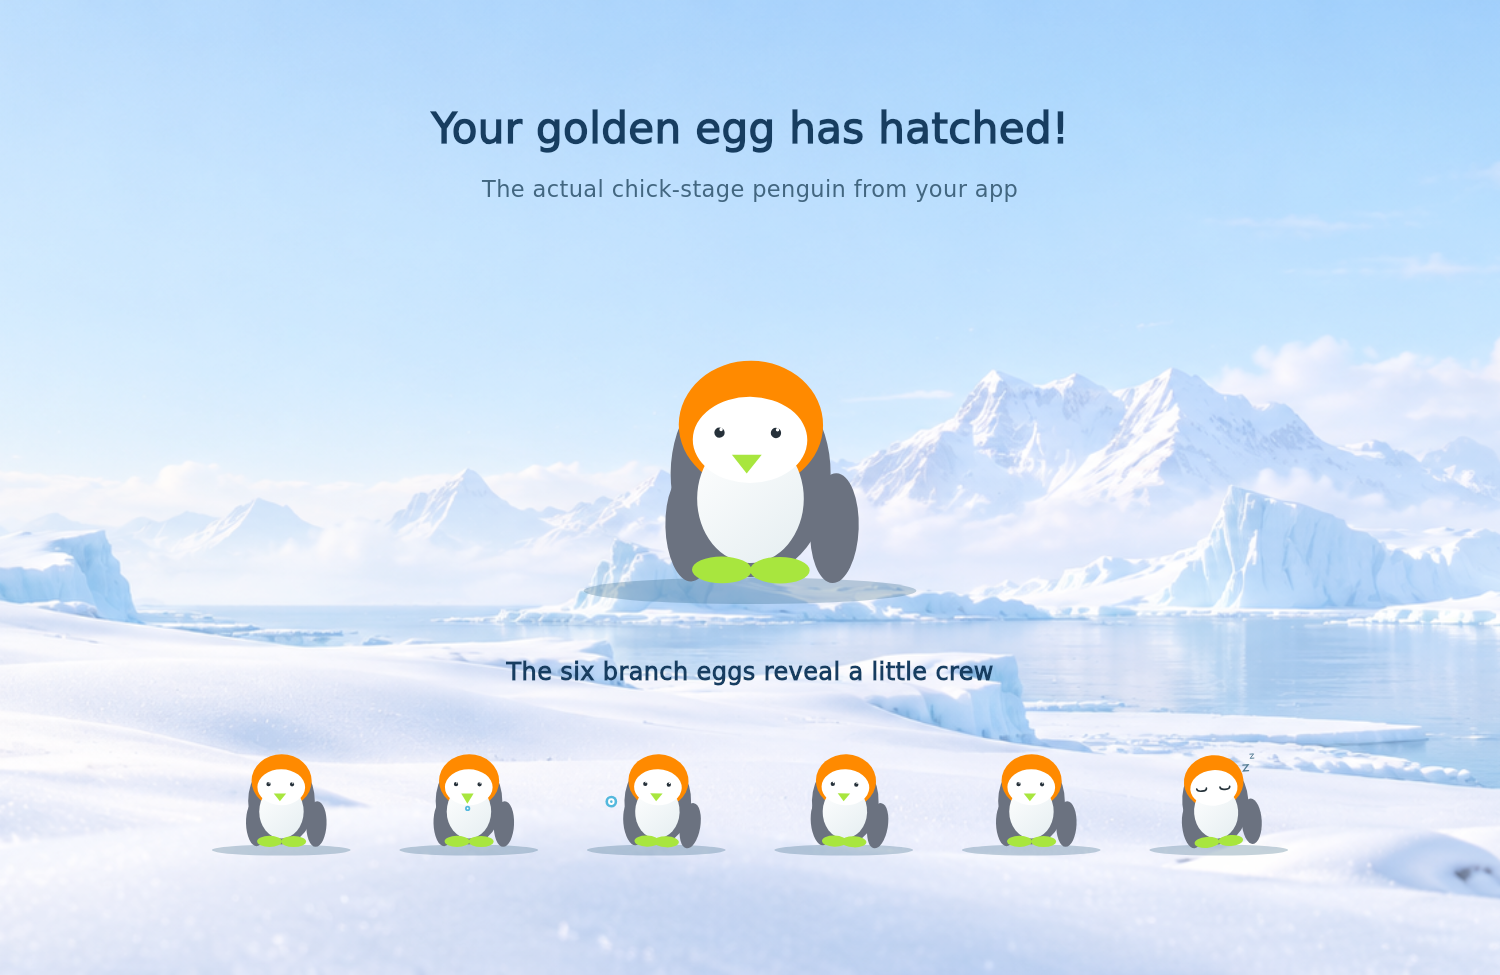
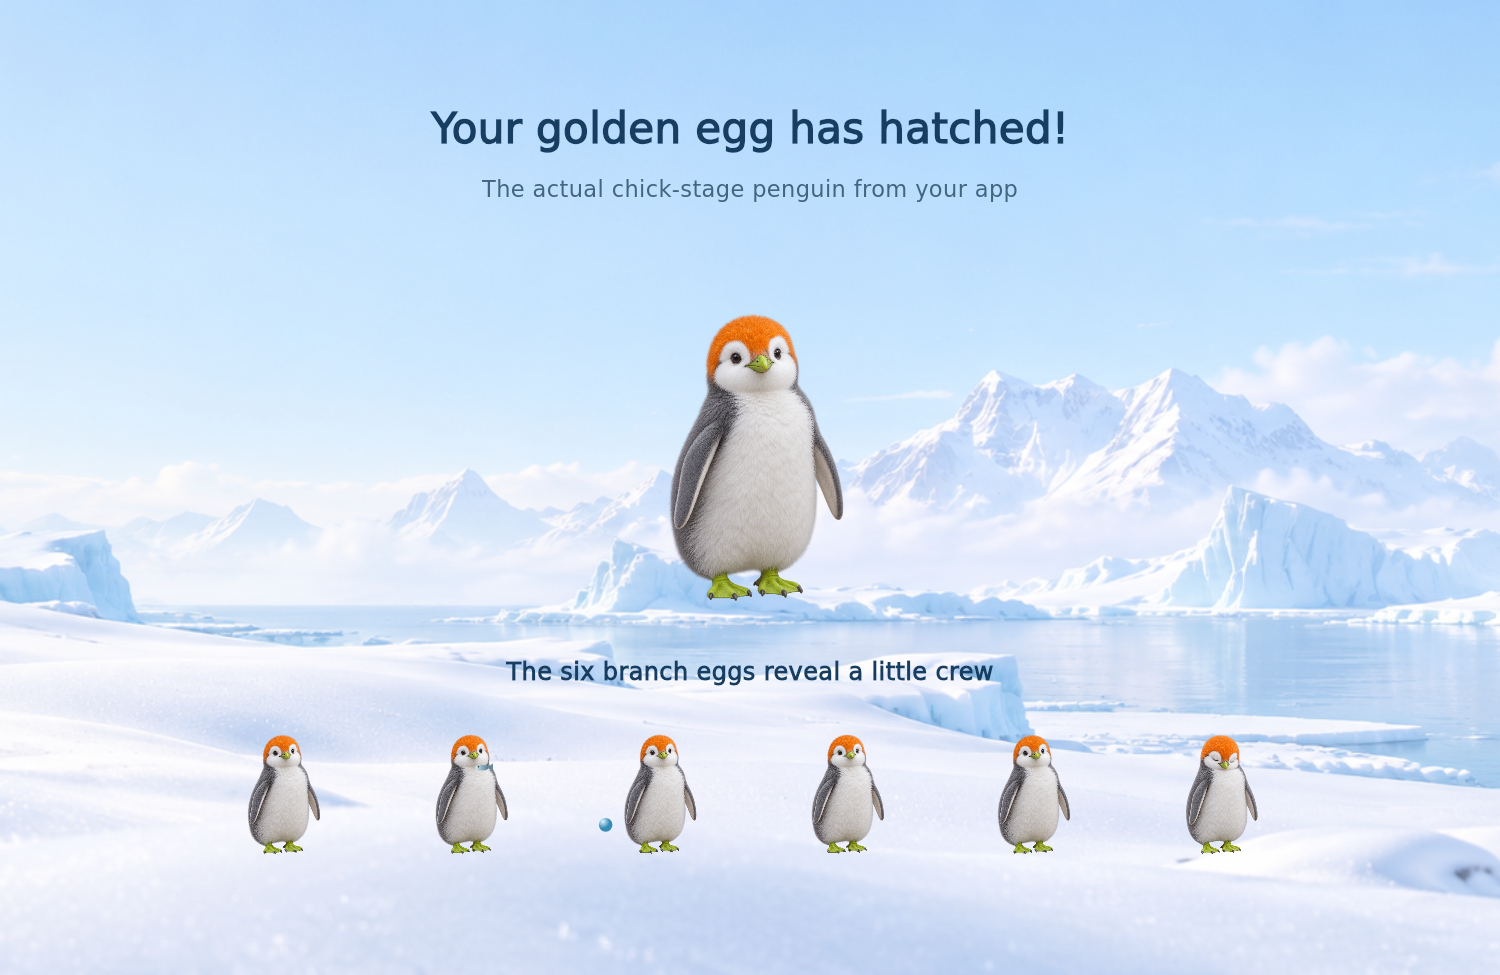
Replace flat penguins with realistic feathered chick and adult artwork

diff --git a/lib/widgets/employee_penguin_pet_card.dart b/lib/widgets/employee_penguin_pet_card.dart
@@ -261,7 +261,7 @@ class _EmployeePenguinPetCardState extends State<EmployeePenguinPetCard> {
   }
 }
 
-/// Original vector penguin, animated locally without downloaded artwork.
+/// Detailed feathered artwork with local breathing, waddling and care motion.
 class PenguinIllustration extends StatefulWidget {
   const PenguinIllustration({
     super.key,
@@ -313,14 +313,83 @@ class _PenguinIllustrationState extends State<PenguinIllustration>
           width: 220,
           child: AnimatedBuilder(
             animation: motion,
-            builder: (context, _) => CustomPaint(
-              painter: _PenguinPainter(
-                stage: widget.stage,
-                action: widget.action,
-                phase: reduceMotion ? 0 : motion.value,
-                hatching: widget.hatching,
-              ),
-            ),
+            builder: (context, _) {
+              final phase = reduceMotion ? 0.0 : motion.value;
+              if (widget.stage == 'egg') {
+                return CustomPaint(
+                  painter: _PenguinPainter(
+                    stage: widget.stage,
+                    action: widget.action,
+                    phase: phase,
+                    hatching: widget.hatching,
+                  ),
+                );
+              }
+              final sleeping = widget.action == 'sleeping';
+              final walking =
+                  widget.action == 'waddling' || widget.action == 'playing';
+              final eating = widget.action == 'eating';
+              final swing = math.sin(phase * math.pi * 2);
+              final growth = widget.stage == 'chick'
+                  ? .84
+                  : widget.stage == 'juvenile'
+                      ? .94
+                      : 1.0;
+              final assetStage = widget.stage == 'chick' ? 'chick' : 'adult';
+              final asset =
+                  'assets/penguins/$assetStage${sleeping ? '_sleep' : ''}.png';
+              return Stack(
+                children: [
+                  Positioned.fill(
+                    child: Transform.translate(
+                      offset: reduceMotion
+                          ? Offset.zero
+                          : Offset(
+                              walking ? swing * 4 : 0,
+                              walking
+                                  ? -swing.abs() * 2
+                                  : eating
+                                      ? -swing.abs() * 1.5
+                                      : 0,
+                            ),
+                      child: Transform.rotate(
+                        angle: reduceMotion
+                            ? 0
+                            : walking
+                                ? swing * .045
+                                : eating
+                                    ? swing * .018
+                                    : swing * .004,
+                        alignment: Alignment.bottomCenter,
+                        child: Transform.scale(
+                          scale: growth *
+                              (1 +
+                                  (reduceMotion
+                                      ? 0
+                                      : swing * (sleeping ? .007 : .005))),
+                          alignment: Alignment.bottomCenter,
+                          child: Padding(
+                            padding: const EdgeInsets.fromLTRB(20, 3, 20, 8),
+                            child: Image.asset(
+                              asset,
+                              fit: BoxFit.contain,
+                              filterQuality: FilterQuality.high,
+                              cacheHeight: 512,
+                            ),
+                          ),
+                        ),
+                      ),
+                    ),
+                  ),
+                  if (eating || widget.action == 'playing')
+                    Positioned.fill(
+                        child: CustomPaint(
+                      painter: _PenguinCarePainter(
+                          action: widget.action, phase: phase),
+                    )),
+                ],
+              );
+            },
           ),
         ),
       ),
@@ -343,21 +412,7 @@ class _PenguinPainter extends CustomPainter {
 
   @override
   void paint(Canvas canvas, Size size) {
-    final body = Paint()..color = const Color(0xFF6B7280);
-    final detail = Paint()..color = const Color(0xFF26313A);
-    final belly = Paint()..color = const Color(0xFFFFFFFF);
-    final orange = Paint()..color = const Color(0xFFFF8A00);
-    final green = Paint()..color = const Color(0xFFA8E63E);
-    final accent = Paint()..color = const Color(0xFF54B8DD);
     final shadow = Paint()..color = const Color(0x44265A78);
-    final asleep = action == 'sleeping';
-    final eating = action == 'eating';
-    final playing = action == 'playing';
-    final walking = playing || action == 'waddling';
-    final swing = math.sin(phase * math.pi * 2);
-    final breath = math.sin(phase * math.pi * 2) * .018;
-    final blink = !asleep && !eating && phase > .49 && phase < .535;
-
     canvas.drawOval(
       Rect.fromLTWH(size.width * .13, size.height * .88, size.width * .74, 13),
       shadow,
@@ -413,127 +468,6 @@ class _PenguinPainter extends CustomPainter {
       canvas.restore();
       return;
     }
-
-    final scale = stage == 'chick'
-        ? .76
-        : stage == 'juvenile'
-            ? .89
-            : 1.0;
-    final center = Offset(size.width / 2, size.height * .88);
-    canvas.save();
-    canvas.translate(center.dx, center.dy);
-    canvas.rotate(
-      asleep
-          ? -.08
-          : walking
-              ? swing * .07
-              : swing * .012,
-    );
-    canvas.scale(scale * (1 + (asleep ? 0 : breath)));
-    canvas.translate(-center.dx, -center.dy);
-
-    // Tail and body silhouette.
-    canvas.drawOval(Rect.fromLTWH(88, 50, 45, 104), body);
-    canvas.drawOval(Rect.fromLTWH(59, 35, 102, 132), body);
-    // Bright orange crown with a white face mask, matching the reference.
-    canvas.drawOval(Rect.fromLTWH(64, 29, 92, 82), orange);
-
-    // Flippers swing while walking or playing.
-    canvas.save();
-    canvas.translate(70, 108);
-    canvas.rotate(walking ? -.25 + swing * .24 : -.05 + swing * .035);
-    canvas.drawOval(Rect.fromLTWH(-15, -8, 31, 70), body);
-    canvas.restore();
-    canvas.save();
-    canvas.translate(150, 108);
-    canvas.rotate(walking ? .25 - swing * .24 : .05 - swing * .035);
-    canvas.drawOval(Rect.fromLTWH(-1, -8, 31, 70), body);
-    canvas.restore();
-
-    // Warm white facial mask and softly shaded belly.
-    final chest = Rect.fromLTWH(76, 76, 68, 82);
-    canvas.drawOval(
-      chest,
-      Paint()
-        ..shader = const LinearGradient(
-          begin: Alignment.topLeft,
-          end: Alignment.bottomRight,
-          colors: [Color(0xFFFFFFFF), Color(0xFFE5EEF1)],
-        ).createShader(chest),
-    );
-    canvas.drawOval(Rect.fromLTWH(73, 52, 73, 55), belly);
-
-    // Feet alternate to create a readable waddling gait.
-    final step = walking ? swing * 7 : 0.0;
-    canvas.drawOval(Rect.fromLTWH(73 + step, 154, 38, 17), green);
-    canvas.drawOval(Rect.fromLTWH(110 - step, 154, 38, 17), green);
-
-    if (asleep) {
-      final eyePaint = Paint()
-        ..color = const Color(0xFF26333B)
-        ..style = PaintingStyle.stroke
-        ..strokeWidth = 2.6
-        ..strokeCap = StrokeCap.round;
-      canvas.drawArc(Rect.fromLTWH(83, 75, 15, 8), 0, math.pi, false, eyePaint);
-      canvas.drawArc(
-        Rect.fromLTWH(119, 75, 15, 8),
-        0,
-        math.pi,
-        false,
-        eyePaint,
-      );
-      _drawSleepyZ(canvas, 157, 48, 1);
-      _drawSleepyZ(canvas, 169, 32, .72);
-    } else {
-      final eyeHeight = blink ? 2.0 : 10.0;
-      canvas.drawOval(Rect.fromLTWH(83, 70, 14, eyeHeight), belly);
-      canvas.drawOval(Rect.fromLTWH(119, 70, 14, eyeHeight), belly);
-      if (!blink) {
-        canvas.drawCircle(const Offset(90, 75), 3.3, detail);
-        canvas.drawCircle(const Offset(126, 75), 3.3, detail);
-        canvas.drawCircle(
-          const Offset(91, 73),
-          1.1,
-          Paint()..color = Colors.white,
-        );
-        canvas.drawCircle(
-          const Offset(127, 73),
-          1.1,
-          Paint()..color = Colors.white,
-        );
-      }
-      final beak = Path()
-        ..moveTo(98, 89)
-        ..lineTo(117, 89)
-        ..lineTo(eating ? 107.5 : 107.5, eating ? 105 : 101)
-        ..close();
-      canvas.drawPath(beak, green);
-      if (eating) {
-        canvas.drawCircle(const Offset(108, 112), 4, accent);
-        canvas.drawCircle(const Offset(108, 112), 1.3, belly);
-      }
-    }
-
-    if (playing) {
-      canvas.drawCircle(const Offset(39, 104), 9, accent);
-      canvas.drawCircle(const Offset(39, 104), 5, Paint()..color = belly.color);
-      canvas.drawCircle(const Offset(39, 104), 2, accent);
-    }
-    canvas.restore();
-  }
-
-  void _drawSleepyZ(Canvas canvas, double x, double y, double scale) {
-    final paint = Paint()
-      ..color = const Color(0xFF527B91)
-      ..style = PaintingStyle.stroke
-      ..strokeWidth = 2 * scale
-      ..strokeCap = StrokeCap.round;
-    final path = Path()
-      ..moveTo(x, y)
-      ..lineTo(x + 8 * scale, y)
-      ..lineTo(x, y + 9 * scale)
-      ..lineTo(x + 8 * scale, y + 9 * scale);
-    canvas.drawPath(path, paint);
   }
 
   @override
@@ -542,4 +476,51 @@ class _PenguinPainter extends CustomPainter {
       old.action != action ||
       old.phase != phase ||
       old.hatching != hatching;
+}
+
+/// Small care props accompany the realistic bird without redrawing its body.
+class _PenguinCarePainter extends CustomPainter {
+  const _PenguinCarePainter({required this.action, required this.phase});
+  final String action;
+  final double phase;
+
+  @override
+  void paint(Canvas canvas, Size size) {
+    if (action == 'eating') {
+      final x = size.width * .57;
+      final y = size.height * (.46 - phase * .12);
+      final fish = Rect.fromCenter(center: Offset(x, y), width: 16, height: 7);
+      canvas.drawOval(
+          fish,
+          Paint()
+            ..shader = const LinearGradient(
+              colors: [Color(0xFFD5EAF3), Color(0xFF51798A)],
+            ).createShader(fish));
+      canvas.drawPath(
+          Path()
+            ..moveTo(x + 7, y)
+            ..lineTo(x + 13, y - 5)
+            ..lineTo(x + 13, y + 5)
+            ..close(),
+          Paint()..color = const Color(0xFF63899A));
+      canvas.drawCircle(
+          Offset(x - 4, y - 1), .9, Paint()..color = const Color(0xFF26313A));
+    } else {
+      final center = Offset(size.width * .23,
+          size.height * (.80 - math.sin(phase * math.pi * 2).abs() * .16));
+      final bounds = Rect.fromCircle(center: center, radius: 8);
+      canvas.drawCircle(
+          center,
+          8,
+          Paint()
+            ..shader = const RadialGradient(
+              center: Alignment(-.4, -.5),
+              colors: [Color(0xFFDBF6FF), Color(0xFF368AB6)],
+            ).createShader(bounds));
+    }
+  }
+
+  @override
+  bool shouldRepaint(covariant _PenguinCarePainter old) =>
+      old.action != action || old.phase != phase;
 }

diff --git a/test/employee_penguin_pet_test.dart b/test/employee_penguin_pet_test.dart
@@ -4,7 +4,7 @@ import 'package:hasani_payroll_portal/widgets/employee_penguin_pet_card.dart';
 
 void main() {
   testWidgets(
-    'original penguin illustration renders every growth and care state',
+    'realistic artwork renders every growth and care state',
     (tester) async {
       for (final stage in ['egg', 'chick', 'juvenile', 'adult']) {
         for (final action in ['idle', 'eating', 'playing', 'sleeping']) {
@@ -15,7 +15,18 @@ void main() {
               ),
             ),
           );
-          expect(find.byType(CustomPaint), findsWidgets);
+          if (stage == 'egg') {
+            expect(find.byType(CustomPaint), findsWidgets);
+          } else {
+            final bird = stage == 'chick' ? 'chick' : 'adult';
+            final pose = action == 'sleeping' ? '_sleep' : '';
+            expect(
+                find.byWidgetPredicate((widget) =>
+                    widget is Image &&
+                    _assetPath(widget.image) ==
+                        'assets/penguins/$bird$pose.png'),
+                findsOneWidget);
+          }
           await tester.pump(const Duration(milliseconds: 50));
         }
       }
@@ -40,7 +51,13 @@ void main() {
           ),
         ),
       );
-      expect(find.byType(CustomPaint), findsWidgets);
+      expect(
+          find.byWidgetPredicate((widget) =>
+              widget is Image &&
+              _assetPath(widget.image) == 'assets/penguins/adult_sleep.png'),
+          findsOneWidget);
+      await tester.pump(const Duration(seconds: 1));
+      expect(tester.binding.hasScheduledFrame, isFalse);
       await tester.tap(find.byType(GestureDetector).last);
       expect(tapped, isTrue);
     },
@@ -87,4 +104,10 @@ void main() {
 
     await tester.pumpWidget(const SizedBox.shrink());
   });
+}
+
+String? _assetPath(ImageProvider provider) {
+  if (provider is ResizeImage) return _assetPath(provider.imageProvider);
+  if (provider is AssetImage) return provider.assetName;
+  return null;
 }
